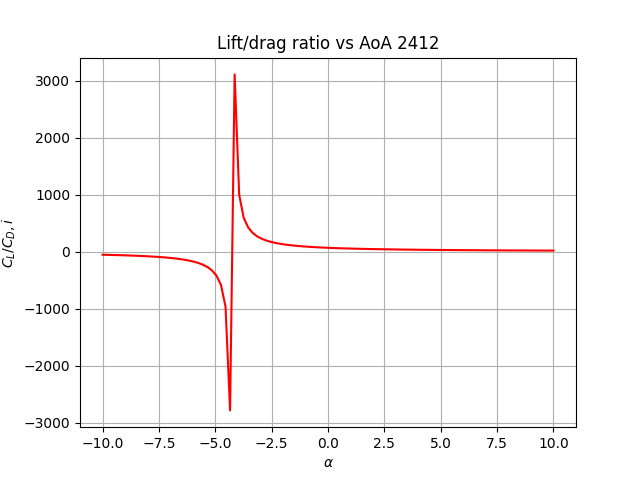
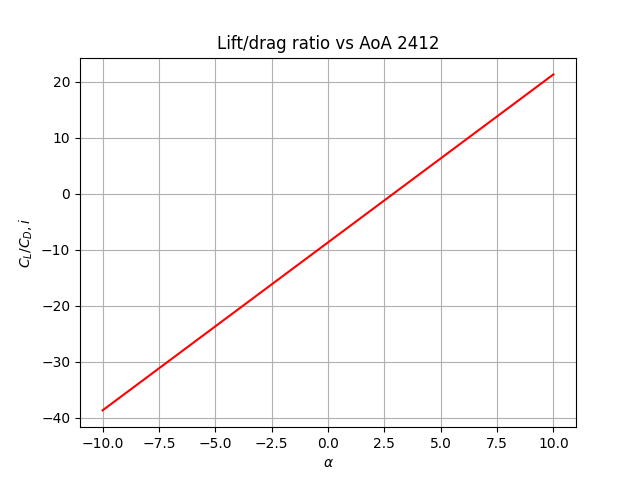
stuff

diff --git a/final_project/Wing.py b/final_project/Wing.py
@@ -28,6 +28,7 @@ class Wing:
 
         self.V_inf = fluid.V_inf
         self.rho = fluid.rho
+        self.mu = fluid.mu
 
         self.N = N
 
@@ -42,19 +43,25 @@ class Wing:
 
         alpha_theta = alpha_y.subs(y, self.b/2 * sp.cos(theta))
 
-        y_list = np.linspace(0, self.b/2, self.N)
-        theta_list = np.linspace(np.pi/2, np.pi, self.N)
+        theta_list = np.linspace(0+0.1, np.pi/2-0.1, self.N)
+
+        s = (self.root_chord - self.tip_chord)/(self.taper_start - self.b/2)
+        b = self.root_chord - s * self.taper_start
+        c_y = sp.Piecewise((self.root_chord, y <= self.taper_start),
+                           (s*y + b, (y > self.taper_start) & (y <= self.b/2)))
+
+        c_theta = c_y.subs(y, self.b/2 * sp.cos(theta))
 
         rhs = np.zeros(self.N)
         lhs = np.zeros((self.N, self.N))
-    
         for i in range(self.N):
             t = theta_list[i]
             a = float(alpha_theta.subs(theta, t))
             rhs[i] = a - self.AoA_0
+            c = float(c_theta.subs(theta, t))
             for j in range(1, 2 * self.N + 1, 2):
                 lhs[i][int((j - 1)/2)] = 4*self.b / \
-                    (self.lift_slope * self.mac) *\
+                    (self.lift_slope * c) *\
                     np.sin(j*t) + j*np.sin(j*t)/np.sin(t)
 
         A = np.linalg.solve(lhs, rhs)
@@ -64,29 +71,17 @@ class Wing:
         for i in range(self.N):
             gamma_theta += 2 * self.b * self.V_inf * A[i] * sp.sin(i*theta)
 
-        gamma_y = gamma_theta.subs(theta, sp.acos(y/self.b))
+        """gamma_y = gamma_theta.subs(theta, sp.acos(y/self.b))
 
-        # return lambdify(y, gamma_y, modules='numpy')(y_list)
+        return lambdify(y, gamma_y, modules='numpy')(y_list)
 
-        # return 1/2*(np.pi * A[0] * self.AR) * self.rho * self.V_inf**2 * self.S
-        # print(A)
+        return 1/2*(np.pi * A[0] * self.AR) * self.rho * self.V_inf**2 * self.S
+        print(A)"""
         return np.pi * A[0] * self.AR
-
-    def thin_airfoil_lift(self):
-        return 1/2 * self.rho * self.V_inf * self.S**2 * self.airfoil.zero_Cl
-
-    def lifting_line_lift(self):
-        gamma = self.vortex_distribution()
-        b_list = np.linspace(-self.b/2, self.b/2, self.N)
-        b_list_1 = np.linspace(-self.b/2, self.b/2, self.N - 1)
-        lift_per_span = self.rho * self.V_inf * cumtrapz(gamma, b_list)
-        lift_coeff = np.trapz(lift_per_span, b_list_1)
-
-        return lift_coeff
 
     def plot_CL(self, n_points):
         fig, ax = plt.subplots()
-        alpha_i = np.linspace(np.radians(-10), np.radians(10), n_points)
+        alpha_i = np.linspace(np.radians(-20), np.radians(20), n_points)
 
         CL = np.zeros(n_points)
 
@@ -110,7 +105,7 @@ class Wing:
 
     def plot_CLCD(self, n_points):
         fig, ax = plt.subplots()
-        alpha_i = np.linspace(np.radians(-10), np.radians(10), n_points)
+        alpha_i = np.linspace(np.radians(-20), np.radians(20), n_points)
 
         CL = np.zeros(n_points)
         CD = np.zeros(n_points)
@@ -130,7 +125,7 @@ class Wing:
 
     def plot_CLCD_alpha(self, n_points):
         fig, ax = plt.subplots()
-        alpha_i = np.linspace(np.radians(-10), np.radians(10), n_points)
+        alpha_i = np.linspace(np.radians(-20), np.radians(20), n_points)
 
         ratio = np.zeros(n_points)
 
@@ -149,16 +144,39 @@ class Wing:
         ax.grid(visible=True)
         fig.savefig("NACA " + self.airfoil.code + " Lift-drag ratio vs AoA")
 
+    def friction_drag(self):
+        n = self.N - 1
+        y_values = np.linspace(0, self.b/2, self.N)
+
+        y = sp.symbols('y')        
+        s = (self.root_chord - self.tip_chord)/(self.taper_start - self.b/2)
+        b = self.root_chord - s * self.taper_start
+        c_y = sp.Piecewise((self.root_chord, y <= self.taper_start),
+                           (s*y + b, (y > self.taper_start) & (y <= self.b/2)))
+
+        drag = 0
+        Re_local = 0
+        for i in range(n):
+            c_0 = float(c_y.subs(y, y_values[i]))
+            c_1 = float(c_y.subs(y, y_values[i+1]))
+            Re_local = np.average((c_0, c_1)) * self.V_inf**2 *\
+                self.rho / self.mu
+            Cf = 1.328 / np.sqrt(Re_local)
+            area = self.b / self.N / 4 * (c_0 + c_1)
+            drag += area * (1/2*Cf*self.rho*self.V_inf**2)
+
+        return drag
+
 
 def test(designation):
     cessna = Airplane(11, 16.2, 0.5, np.radians(1.5),
-                      np.radians(-1.5), 1.63, 1.13, 5)
+                      np.radians(-1.5), 1.63, 1.13, 2.2)
     air = Fluid(55, 1.3, 1.8*10**-5)
     wing = Wing(cessna, designation, air, 10)
 
     # wing.plot_CL(100)
     # wing.plot_CLCD(100)
-    wing.plot_CLCD_alpha(100)
+    print(wing.friction_drag())
 
 
 def main():

diff --git a/final_project/Airfoil.py b/final_project/Airfoil.py
@@ -72,7 +72,7 @@ class Airfoil:
 
         self.Cl = np.pi*(np.add(2*A0, A[1]))
 
-        alpha_n = np.linspace(-0.175, 0.175, 100)
+        alpha_n = np.linspace(np.radians(-20), np.radians(20), 100)
         self.lift_slope = linregress(alpha_n, self.Cl).slope
         self.zero_Cl = linregress(alpha_n, self.Cl).intercept
 
@@ -144,7 +144,7 @@ class Airfoil:
 
     def plot_CL(self, n_points):
         fig, ax = plt.subplots()
-        alpha_n = np.linspace(np.radians(-10), np.radians(10), n_points)
+        alpha_n = np.linspace(np.radians(-20), np.radians(20), n_points)
 
         ax.plot(np.degrees(alpha_n), self.Cl)
         ax.axvline(x=np.degrees(self.alpha_L0), color="black",
@@ -160,7 +160,7 @@ class Airfoil:
 
     def plot_CLCD(self, n_points):
         fig, ax = plt.subplots()
-        alpha_n = np.linspace(np.radians(-10), np.radians(10), n_points)
+        alpha_n = np.linspace(np.radians(-20), np.radians(20), n_points)
 
         ax.plot(np.degrees(alpha_n), self.Cl)
         ax.axvline(x=np.degrees(self.alpha_L0), color="black",
